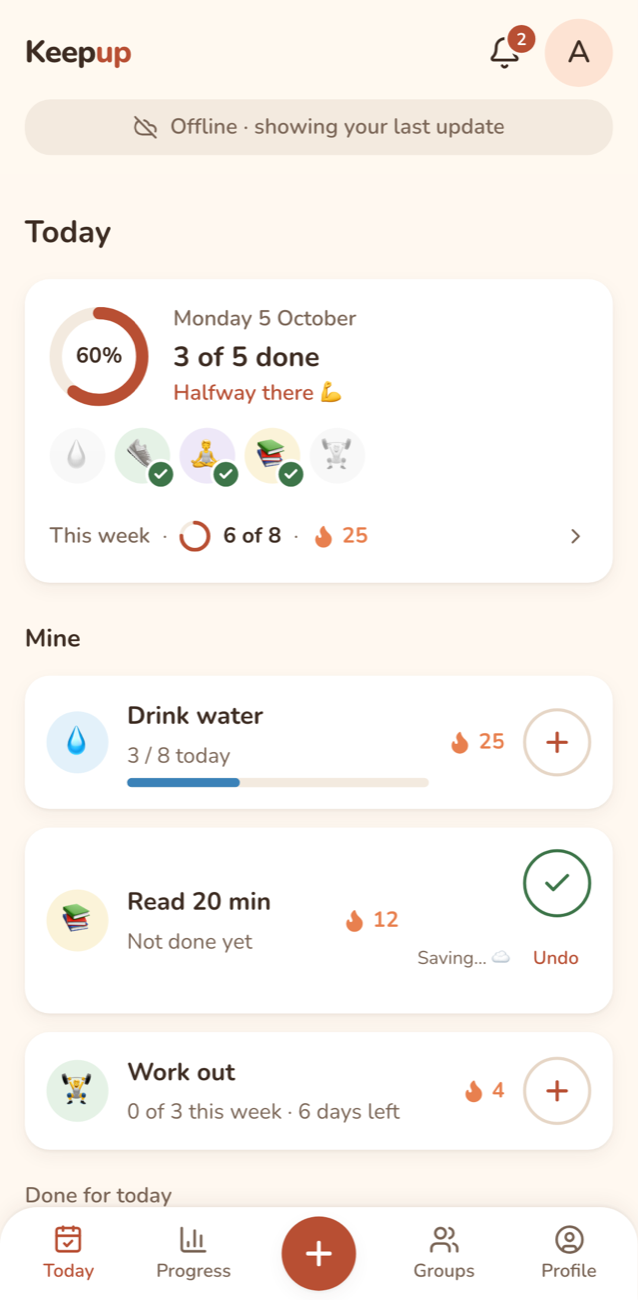
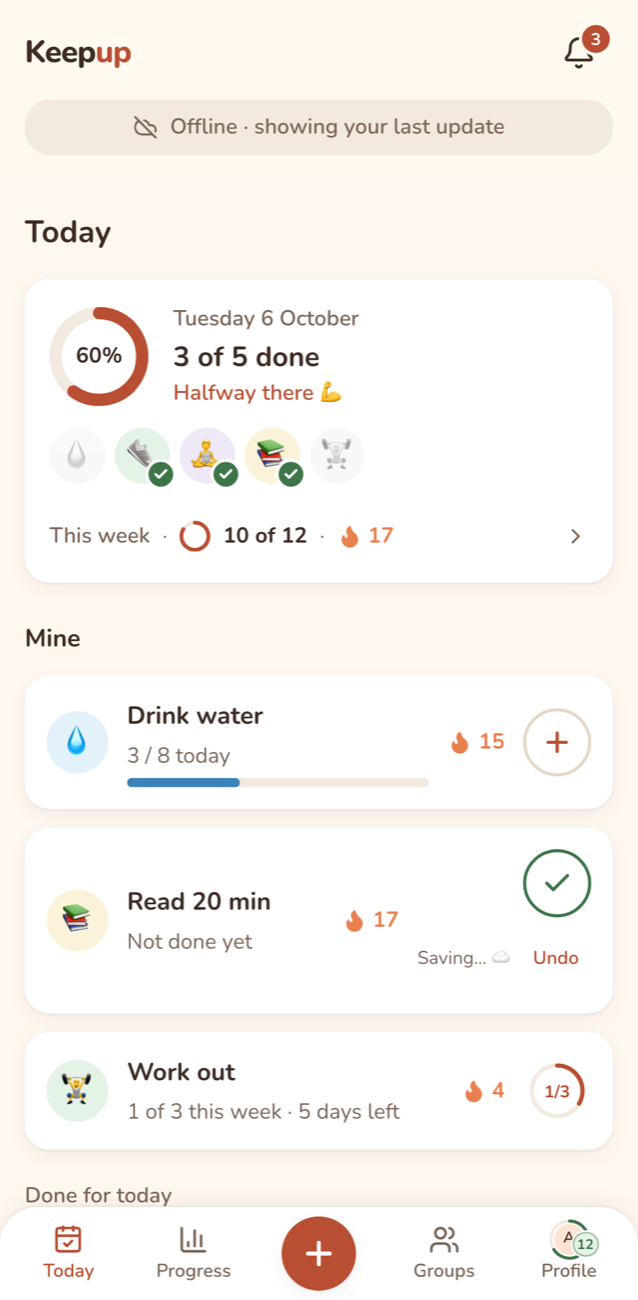
docs: M5 decisions, What's new 0.6.0, README and screenshots (M5 PR 13) (#146)
M5 PR 13 of 13. Docs, copy and screenshots.

- **ADRs 0018–0023:** one XP ledger; milestones once per streak; badges
awarded once and never revoked; rest days instead of streak freezes;
recaps show wins only; achievements arrive quietly. Each describes what
shipped (from the merged PRs); the index is updated.
- **What's new 0.6.0** (no date until the release merges):
  - XP and levels with the ring;
  - 24 badges;
  - rest days;
  - weekly and monthly recaps;
  - celebrations, and the kid view's big reveal on every star.
- **README:** M5 in "What works today" and one more "Interesting
problem". The roadmap stays 🚧 until the release.
- **Screenshots** regenerated (all 638×1300, checked by the script),
with new **Achievements**, **Celebration** and **Recaps** shots.

🤖 Generated with [Claude Code](https://claude.com/claude-code)

---------

diff --git a/scripts/readme/screenshots.spec.ts b/scripts/readme/screenshots.spec.ts
@@ -1,6 +1,6 @@
 import { execSync } from "node:child_process";
 import { expect, test } from "@playwright/test";
-import { completeOnboarding, signUp, uniqueEmail } from "../../e2e/helpers/auth";
+import { completeOnboarding, setCelebrations, signUp, uniqueEmail } from "../../e2e/helpers/auth";
 import { createGroup } from "../../e2e/helpers/groups";
 import { createHabit } from "../../e2e/helpers/habits";
 
@@ -32,7 +32,12 @@ select h.id, s.d::date, private.period_outcome(h, s.d::date), now()
     private.habit_period_start(h, private.habit_today(h, now()))::timestamp - private.period_step(h.period),
     private.period_step(h.period)) s(d)
  where h.owner_id = (select id from u)
-on conflict (habit_id, period_start) do nothing;`;
+on conflict (habit_id, period_start) do nothing;
+-- Count the seeded history once and quietly, as the app did for existing people.
+update public.profiles set created_at = now() - interval '40 days' where id = (select id from u);
+select private.backfill_xp();
+select private.backfill_milestones();
+select private.backfill_badges();`;
   execSync("docker exec -i supabase_db_keepup psql -U postgres -d postgres -v ON_ERROR_STOP=1 -q", {
     input: sql,
     stdio: ["pipe", "ignore", "inherit"],
@@ -86,7 +91,11 @@ test("README screenshots", async ({ page, context }) => {
   await page.getByRole("button", { name: /: \d+ of \d+ done$/ }).last().click();
   await page.screenshot({ path: `${OUT}/calendar.png` });
 
-  await page.getByRole("link", { name: "Back to Progress" }).click();
+  await page.goto("/progress/recaps");
+  await expect(page.getByRole("region", { name: "Weeks" }).getByRole("listitem").first()).toBeVisible();
+  await page.screenshot({ path: `${OUT}/recaps.png` });
+
+  await page.goto("/progress");
   await page.getByRole("link", { name: /Meditate/ }).click();
   await expect(page).toHaveURL(/\/habits\/[0-9a-f-]{36}$/);
   await page.screenshot({ path: `${OUT}/habit.png` });
@@ -103,8 +112,26 @@ test("README screenshots", async ({ page, context }) => {
     await page.waitForTimeout(400);
   }
   await page.evaluate(() => window.scrollTo(0, 0));
-  await page.waitForTimeout(3500); // let the scene settle: the new sprout grows, then rests
+  await page.waitForTimeout(7000); // let the scene settle: each big reveal flies to its spot, then rests
   await page.screenshot({ path: `${OUT}/kid-view.png` });
+
+  // Achievements, then one fresh level-up in Full mode. The backfill marked everything seen, and any toast
+  // on the way here marked what it showed, so un-see the top level right before the page that plays it.
+  await page.goto("/profile/achievements");
+  await expect(page.getByRole("heading", { name: "Achievements" })).toBeVisible();
+  await page.screenshot({ path: `${OUT}/achievements.png` });
+
+  await setCelebrations(page, "full");
+  execSync("docker exec -i supabase_db_keepup psql -U postgres -d postgres -v ON_ERROR_STOP=1 -q", {
+    input: `update public.level_ups set seen_at = null where user_id = (select id from auth.users where email = '${email}')
+              and level = (select max(l.level) from public.level_ups l join auth.users au on au.id = l.user_id where au.email = '${email}');`,
+    stdio: ["pipe", "ignore", "inherit"],
+  });
+  await page.goto("/today");
+  await expect(page.getByRole("alertdialog", { name: "Celebration" })).toContainText(/Level \d+/);
+  await page.waitForTimeout(400); // the confetti mid-flight
+  await page.screenshot({ path: `${OUT}/celebration.png` });
+  await page.keyboard.press("Escape");
 
   // Settings → Notifications: a non-default choice, and this device listed (a stand-in push
   // subscription, as in e2e/notifications.spec.ts: headless Chromium can't subscribe).

diff --git a/app/whats-new/releases.ts b/app/whats-new/releases.ts
@@ -18,6 +18,16 @@ export function releaseLabel(r: Release, appVersion: string): string {
 
 export const RELEASES: Release[] = [
   {
+    version: "0.6.0",
+    notes: [
+      "Every check-in earns XP, and you grow from Seedling to Forest. A ring around your Profile avatar shows the way to the next level, and streak milestones arrive in your Inbox.",
+      "24 badges to collect under Profile → Achievements, from First step to Bookworm. Your past check-ins already count.",
+      "Rest days: keep a daily habit going for a week and you earn one. Miss a day and it's used for you, so your streak stays safe.",
+      "A weekly and monthly recap of your wins, in your Inbox and under Progress → Recaps.",
+      "Level-ups and badges get a short celebration (Settings → Celebrations → Subtle for a quieter one). In the kid view, every star now gets a big reveal.",
+    ],
+  },
+  {
     version: "0.5.0",
     date: "2026-10-04",
     notes: [

diff --git a/README.md b/README.md
@@ -25,6 +25,10 @@ A warm, mobile-first habit tracker for one person and for families. Pick a habit
   - an optional end (30 days, 8 weeks, a date…), shown as "Day 12 of 30"; at the end, keep going or finish it;
   - edit the habit; delete it (only if it has no check-ins) or archive it (keeps its history).
 - **Progress:** a "Your week" card (tap a day to see what you did), a month-by-month **calendar** back to your first habit, and active, finished and archived habits by category, each with its last 7 days as dots. Finished habits can start again.
+- **XP and levels:** every counted check-in earns XP (+10, growing with your streak up to +30), finished periods and streak milestones add more, and levels grow from Seedling to Forest. A ring around your Profile avatar fills towards the next level; Profile shows "Level 7 · Sprout" with a bar.
+- **Badges and milestones:** 24 badges under Profile → Achievements (no tiers): earned in colour with the date, locked ones with a hint. Streak milestones (1, 2, 5, 7 days… 365) arrive in the Inbox, once per streak, "Back to 30" after a break. Level-ups and badges get a short full-screen moment, or a quiet toast (Settings → Celebrations).
+- **Rest days:** a week of a daily habit earns one (up to 2); a missed day uses it automatically and the streak stays safe.
+- **Recaps:** a weekly and a monthly recap of your wins in the Inbox, and their history under Progress → Recaps.
 - **Onboarding:** name, detected time zone and week start, then pick up to 3 habits to start with.
 - **Fair streaks:**
   - Periods follow your time zone and your week start (Sunday or Monday).
@@ -40,7 +44,7 @@ A warm, mobile-first habit tracker for one person and for families. Pick a habit
 - **Reminders and pushes:**
   - a daily summary at your hour, or a habit's own time ("Remind me at…", on the quarter hour);
   - group check-ins, approvals, nudges and kids' moments can reach your phone;
-  - per kind: Sound, Silent or Inbox only (Silent by default);
+  - per kind: Sound, Silent or Inbox only (Silent by default; Achievements: Inbox only);
   - pause all, and mute a habit.
 - **Offline:** check in without signal. It's saved on the phone and counts for the day you tapped once you're back online. The last Today and kid view open offline.
 
@@ -48,6 +52,12 @@ A warm, mobile-first habit tracker for one person and for families. Pick a habit
   <img src="docs/screenshots/habit.png" width="220" alt="A habit's page: today's check-in with undo, streaks, history">
   <img src="docs/screenshots/kid-view.png" width="220" alt="The kid view: a garden scene above big habit buttons, open habits first and a done one at the bottom">
   <img src="docs/screenshots/notifications.png" width="220" alt="Settings, Notifications: Sound, Silent or Inbox only for each kind, and this phone listed as a device">
+</p>
+
+<p align="center">
+  <img src="docs/screenshots/achievements.png" width="220" alt="Profile, Achievements: earned badges in colour with icons, locked ones faint">
+  <img src="docs/screenshots/celebration.png" width="220" alt="A level-up moment: a sprout, Level 12, Sapling, soft confetti over Today">
+  <img src="docs/screenshots/recaps.png" width="220" alt="Progress, Recaps: one card per week with check-ins done and the longest streak">
 </p>
 
 ## Interesting problems
@@ -59,6 +69,8 @@ A warm, mobile-first habit tracker for one person and for families. Pick a habit
 **Push decided in the database.** Pushes start from many places: a check-in, an approval, a pause, a cron job. So the decision isn't in app code. A trigger on the feed table sets each row's category and `push` from the person's preferences (Pause all and mutes always win), then `pg_net` calls an Edge Function that sends one push per device. A missing secret only logs a warning and never blocks the action. Each push carries a tag, so a newer one replaces the older, and on the last check-in of a group habit the superseded push is skipped: the family buzzes once, not four times.
 
 **Offline taps count the tap day.** Every tap gets a client-made id, so a resend after a lost response can't count twice. A queued tap carries the phone's time, and the server uses `least(tap, arrival)` for the day, accepted from 3 days back, so a fast clock can't push a tap into tomorrow. Even online taps go queue-first: saved on the phone, then sent, and removed only once the server answers. The database stays the only judge of what counts.
+
+**An XP ledger a late check-in can't fool.** XP is an append-only table with one unique key per grant, written by one function, so every grant is idempotent and an undo is a negative row. Period XP, streak milestones and badges hang off a trigger that fires when a period is settled and again when an offline check-in upgrades it from missed to done up to three days later. Milestones are keyed by the streak's first day, so a merged streak can earn its 14-day bonus on a later day, but never twice. Rest days are computed from the same results, so the upgrade hands back a used rest day by itself. Levels are synced once at the end of any path that touches many habits, in a fixed order, so finalization can't deadlock.
 
 ## Roadmap
 

diff --git a/docs/decisions/0018-one-xp-ledger.md b/docs/decisions/0018-one-xp-ledger.md
@@ -1,0 +1,20 @@
+# 0018. One XP ledger, idempotent by key, levels synced once per path
+
+**Status:** Accepted · 2026-10-06
+
+## Context
+XP comes from check-ins, approvals and finished periods. A check-in can be undone, an approval can come hours later, and since offline check-ins (0015) a settled period can change from missed to done up to 3 days later. A grant must never be paid twice, and finalization touching many habits must not deadlock on level updates.
+
+## Decision
+- One append-only table, `xp_events`, with a unique key (`user_id`, `reason`, `source_type`, `source_id`). Every grant goes through one function, `private.grant_xp`, which does nothing for a key it has seen. An undo inserts a negative row; nothing is updated.
+- Amounts: +10 per counted check-in (from now on, 10 + the streak before it, capped at +30), +2 to the reviewer per approval, +20 per done private period, +30 per required member of a done group period. An undo reverses exactly what was granted, looked up from the ledger.
+- Period XP is also paid when a late check-in or approval upgrades a settled period, through the same function.
+- Level is `floor(sqrt(xp / 50)) + 1`, derived from the sum. `level_ups` keeps one row per level reached.
+- `grant_xp` takes no profile lock. Paths that touch many habits (finalization, "Approve all", "Me + Mary") defer the level sync and run it once at the end, in user-id order, so lock order is the same everywhere.
+- Past history was counted once, quietly (no Inbox rows, levels marked seen), and the streak-scaled amount did not rewrite it.
+- Kids earn through the same ledger, behind the scenes; their view never shows it.
+
+## Consequences
+- Re-running finalization, resending a webhook or upgrading twice changes nothing.
+- XP is a sum, cheap at this scale; a stored total can come later if it isn't.
+- A new XP source is a new `reason`, not a new table.

diff --git a/docs/decisions/0020-badges-are-awarded-once-and-never-revoked.md b/docs/decisions/0020-badges-are-awarded-once-and-never-revoked.md
@@ -1,0 +1,19 @@
+# 0020. Badges are awarded once and never revoked
+
+**Status:** Accepted · 2026-10-06
+
+## Context
+Badges reward things that can later be undone (a check-in, a late upgrade). Taking one back would feel punishing, and judging "a perfect week" for a group habit needs one clear rule.
+
+## Decision
+- 24 badges in a catalog table, no tiers: first steps, streaks, categories and family ones. "Go-getter" replaced "Saver". One pgTAP test per rule.
+- `user_achievements` has the primary key (`user_id`, `achievement_code`): a badge is awarded once, with the date of the earliest moment it was earned, live and in the backfill. An undo never revokes.
+- Badges are judged when a period settles and when it is upgraded. Inside finalization, "Approve all" and "Me + Mary" they are queued and written once after the loop, in user-id order, the same lock order as XP (0018).
+- For a group habit, your own part counts, the same rule as the Today ring and the calendar. Paused periods are left out. "Perfect week" is judged once per person and week, after the week ends in the habit's time zone.
+- A rested period (0021) counts like a skipped one for Perfect week, Full day and Steady month.
+- Kids earn badges behind the scenes, with no Inbox rows. "Planted" for a child's habit goes to the adult who created it.
+- Tables are read-only to clients: the catalog is readable when signed in, earned rows are read-own, no write grants.
+
+## Consequences
+- A badge can be earned "too early" only if the rule says so; nothing takes it back.
+- The earliest-moment rule makes the backfill and live play agree.

diff --git a/docs/decisions/0023-achievements-arrive-quietly.md b/docs/decisions/0023-achievements-arrive-quietly.md
@@ -1,0 +1,16 @@
+# 0023. Achievements arrive quietly; only level-ups and badges take the screen
+
+**Status:** Accepted · 2026-10-06
+
+## Context
+Milestones, recaps and rest-day notes could fill the app with noise, and pushes at the moment a period settles would arrive around midnight. Celebrations also must not slow down a check-in.
+
+## Decision
+- Streak milestones, rest days, recaps, level-ups and badges are Inbox rows under a new push category, Achievements, which is **Inbox only** until the person chooses Sound or Silent. The weekly family recap push is a Group updates row.
+- Level-ups and new badges get a ~2 second full-screen moment with soft confetti, once, when a page opens, closed by a tap, Escape or the timer. Settings → Celebrations → Subtle turns it into a small toast. It plays only while the tab is visible, never in the kid view, and reduced motion is respected. It is not a dialog that traps focus.
+- One shared turn queue (`lib/burst-turns.ts`) covers finish cards, "Everyone did it", the all-done confetti and this moment, so two bursts never play at once.
+- Celebrations load and mark-seen through `/api/celebrations` (same-origin check, then session, then validation; own rows only; `no-store`) instead of server actions, because Next runs a page's server actions one at a time and they would hold up a check-in.
+
+## Consequences
+- A person who never opens Settings is never buzzed by achievements.
+- Pushes for milestones and rest days can arrive soon after midnight for people who opt in, when finalization settles the day. Accepted.

diff --git a/docs/decisions/0019-milestones-once-per-streak.md b/docs/decisions/0019-milestones-once-per-streak.md
@@ -1,0 +1,17 @@
+# 0019. Streak milestones once per streak; "Back to N" after a break
+
+**Status:** Accepted · 2026-10-06
+
+## Context
+A streak milestone should feel earned once. But a late check-in can merge two streaks, periods can settle out of order, and a person who lost a 30-day streak and reaches 30 again deserves to hear it differently.
+
+## Decision
+- Schedules: days 1, 2, 5, 7, 10, 14, 30, 50, 100, 200, 365; weeks 1, 2, 4, 8, 12, 26, 52; months 1, 3, 6, 12. Each has bonus XP.
+- The ledger key is the habit, the streak's first done period and the length, so a milestone is paid once per streak. When an upgrade merges two streaks, a length either piece already earned is not paid again.
+- "Back to N" (private habits) means an earlier streak of the same habit reached N. It is read from the ledger or settled history, so it doesn't depend on the order periods are settled in.
+- Milestones fire when a period is settled and when it is upgraded, walking forward over the later periods the merged streak now reaches.
+- Personal milestones are Inbox rows under Achievements. A group milestone goes under Group updates, once per streak. A child's streak note goes to the adults, daily, from day 7. Late group and kid notes stay in the Inbox.
+
+## Consequences
+- Upgrading twice, or settling in reverse order, pays nothing extra.
+- The backfill was quiet: no rows for streaks that already existed.

diff --git a/docs/decisions/0021-rest-days-instead-of-streak-freezes.md b/docs/decisions/0021-rest-days-instead-of-streak-freezes.md
@@ -1,0 +1,19 @@
+# 0021. Rest days instead of streak freezes
+
+**Status:** Accepted · 2026-10-06
+
+## Context
+A streak that ends after one busy day feels unfair, and buying or planning "freezes" turns a habit app into a game of tokens. Pauses already cover planned breaks (0006).
+
+## Decision
+- Private habits earn a rest day per 7 consecutive done days (weekly habits: per 4 done weeks), up to 2 saved. Monthly and group habits have none (a group streak needs everyone; groups use pauses).
+- When finalization would mark a period `missed` and a rest day is saved, the period becomes `rested` and one is used. A paused period never uses one.
+- A rested period keeps the streak going without adding to it. It sends no "streak ended" note. Badges treat it like a skipped period (0020).
+- The balance is computed from `period_results`, not stored, and periods settle one at a time in date order, so a catch-up uses a saved day once.
+- A late check-in on a rested day upgrades it to done and gives the rest day back.
+- "Rest day used. Your 14-day streak is safe 💤" is an Inbox row under Achievements, and the first one awards "Rest well".
+
+## Consequences
+- No new table and no counter to drift.
+- A refund is not re-applied to later missed days, because "streak ended" notes can't be retracted; the "rest day used" note stays after a refund.
+- Past missed days were not rewritten.

diff --git a/docs/decisions/0022-recaps-show-wins-only.md b/docs/decisions/0022-recaps-show-wins-only.md
@@ -1,0 +1,18 @@
+# 0022. Recaps show wins only, arrive in the Inbox, and run once
+
+**Status:** Accepted · 2026-10-06
+
+## Context
+A weekly or monthly summary can motivate or shame. Today is for doing things, and a cron job that runs every few minutes must not send the same recap twice or stop for everyone when one person's data is odd.
+
+## Decision
+- A weekly recap on the first day of the person's week and a monthly one on the 1st, from 10:00 local, written by the `keepup-recaps` job (every 15 minutes) as Inbox rows. Nothing goes on Today.
+- Wins only: no row when nothing was done, never "0 of N". Rested and skipped periods are left out of the count; your own part of a group habit counts. History says "A quiet week." for an empty period.
+- A `recap_runs` marker (no API access, cleaned after 62 days) makes each person, group, kind and period run once, and a missed tick catches up later that day.
+- Each person and group runs in its own sub-block, so one failure doesn't stop the others.
+- `recaps()` returns the history for Progress → Recaps (last 8 weeks, 6 months with a day heatmap) from the same function.
+- The family recap keeps its Inbox card; its push goes under Group updates. Personal recaps push under Achievements (0023).
+
+## Consequences
+- Re-running the job changes nothing.
+- A person with nothing to report is not nagged.

diff --git a/docs/decisions/README.md b/docs/decisions/README.md
@@ -21,3 +21,9 @@ Short records of the choices that shape Keepup: what was decided, why, and what 
 | [0015](0015-offline-check-ins-count-the-tap.md) | Offline check-ins count the tap | Accepted |
 | [0016](0016-the-database-decides-push-tags-coalesce.md) | The database decides push; tags coalesce | Accepted |
 | [0017](0017-reminders-only-for-devices-that-asked.md) | Reminders only for devices that asked | Accepted |
+| [0018](0018-one-xp-ledger.md) | One XP ledger, idempotent by key, levels synced once per path | Accepted |
+| [0019](0019-milestones-once-per-streak.md) | Streak milestones once per streak; "Back to N" after a break | Accepted |
+| [0020](0020-badges-are-awarded-once-and-never-revoked.md) | Badges are awarded once and never revoked | Accepted |
+| [0021](0021-rest-days-instead-of-streak-freezes.md) | Rest days instead of streak freezes | Accepted |
+| [0022](0022-recaps-show-wins-only.md) | Recaps show wins only, arrive in the Inbox, and run once | Accepted |
+| [0023](0023-achievements-arrive-quietly.md) | Achievements arrive quietly; only level-ups and badges take the screen | Accepted |
